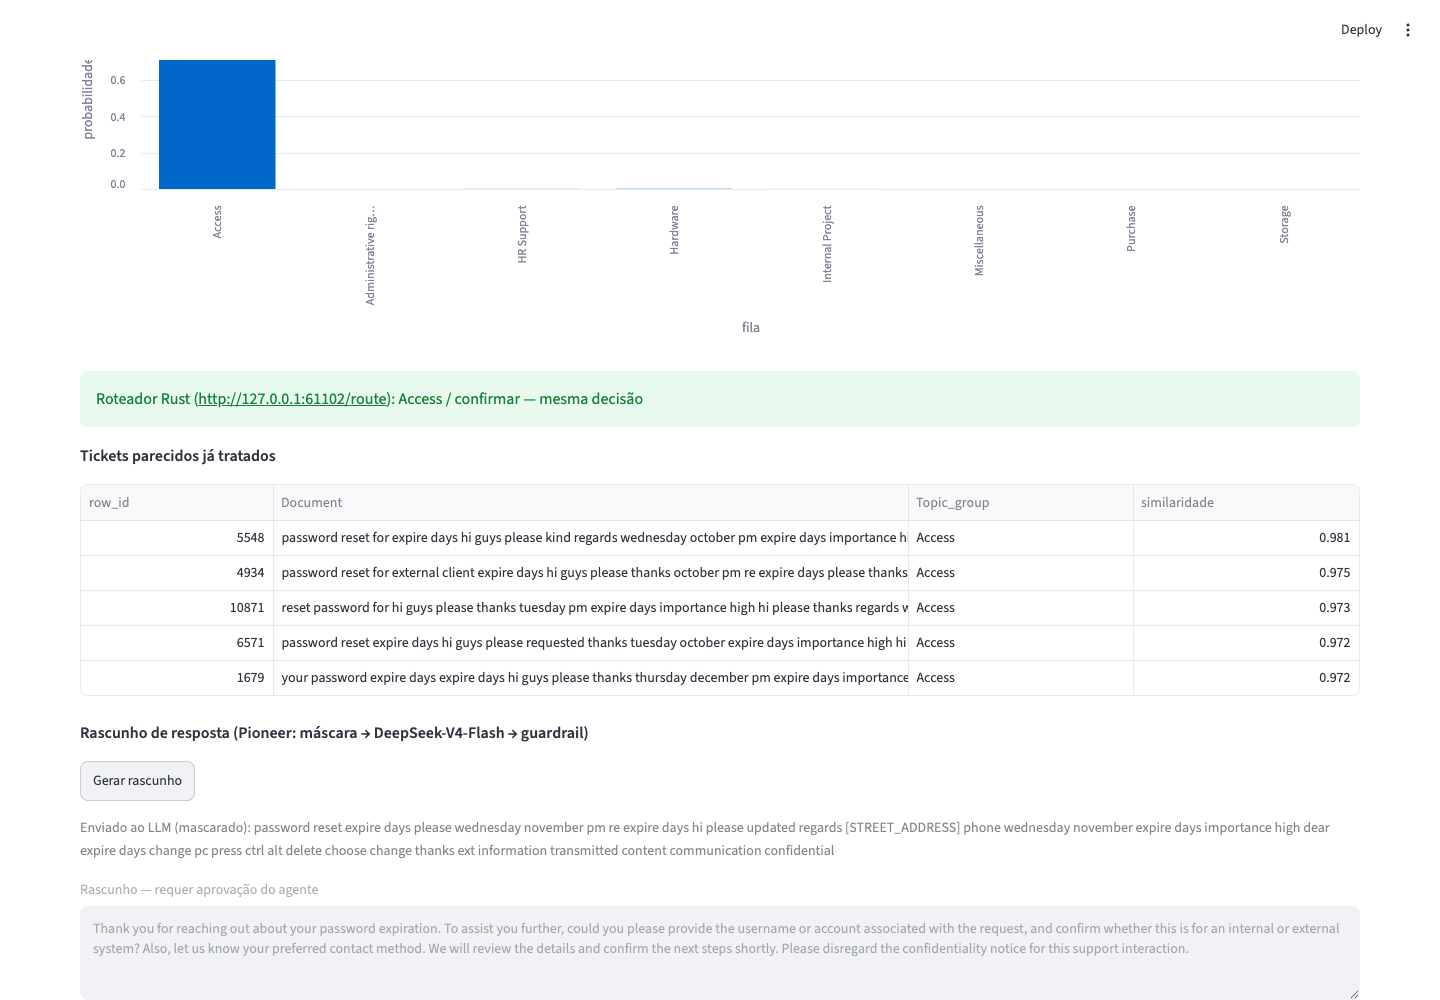
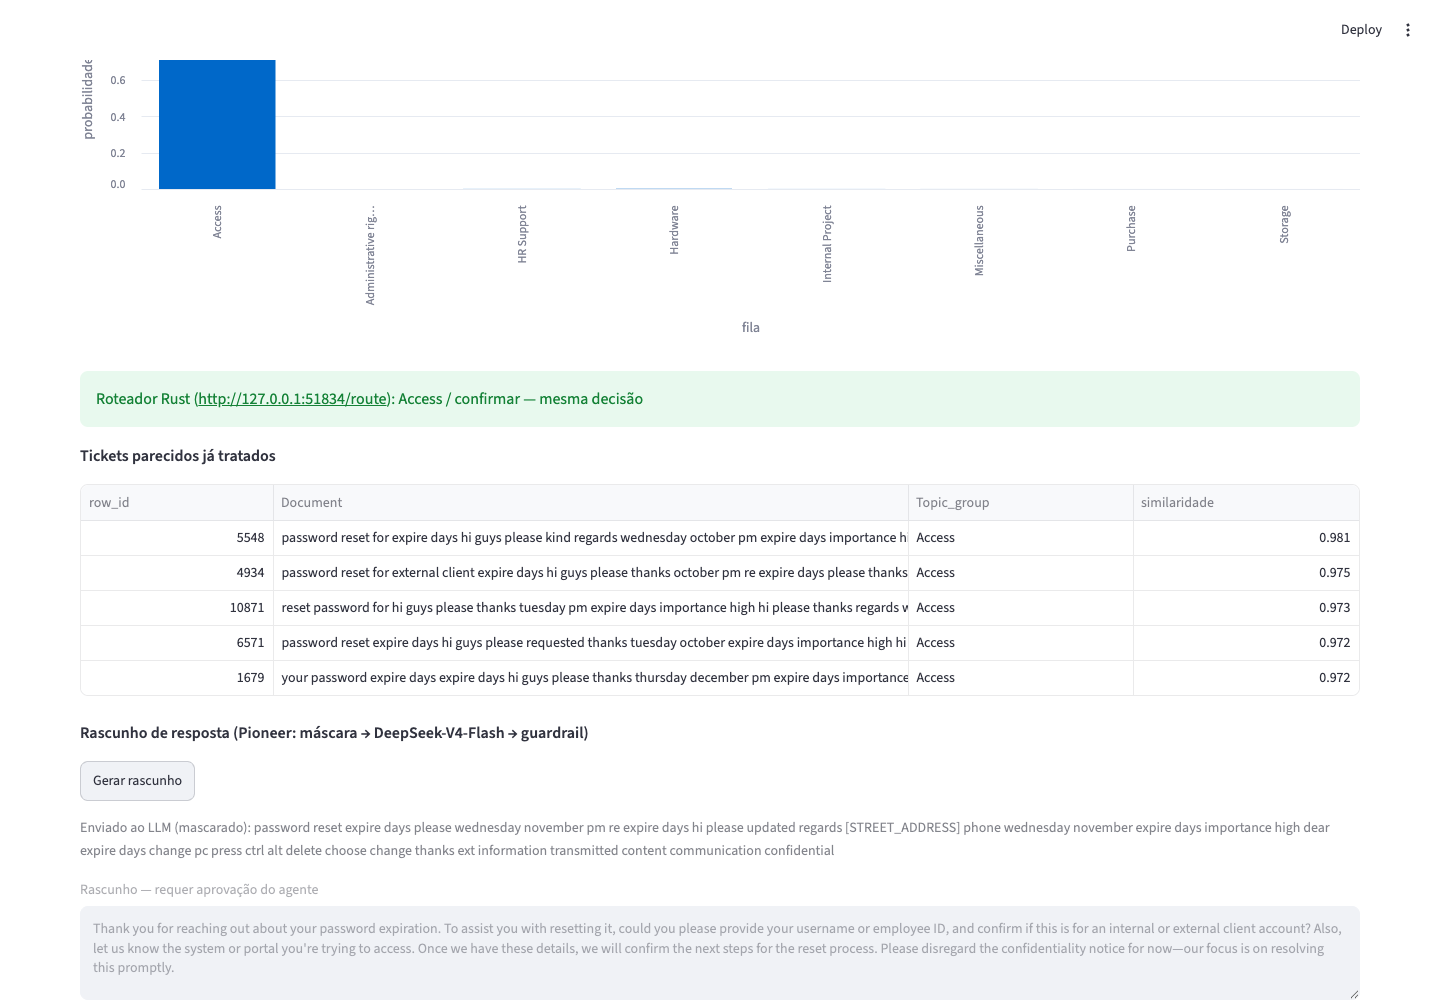
docs(002): links da demo pública, provas atualizadas e process log da publicação

Changed region(s): [[0.4062, 0.93, 0.9375, 0.961], [0.0625, 0.93, 0.375, 0.992], [0.2188, 0.372, 0.25, 0.403]]

diff --git a/submissions/geoffrey-porto/process-002-support/process-log/PROCESS_LOG.md b/submissions/geoffrey-porto/process-002-support/process-log/PROCESS_LOG.md
@@ -30,6 +30,10 @@ no setup), em 2026-09-16. Linha do tempo aproximada, decisões e erros pegos.
 | 4:10 | Grafo do código | graphify achou ciclo de import `model.rs ↔ policy.rs` | Movi `Scores` para `scores.rs`; binários recompilados; grafo sem ciclos |
 | 4:20 | E2E | 8 testes Playwright no Chrome real, com capturas | O rascunho real do Pioneer apareceu mascarado e aprovado pelo guardrail |
 | 4:30 | Evidência | Export da sessão | Chave e e-mail redigidos antes de salvar; zip original substituído pela versão redigida |
+| 5:00 | Publicação (pedido do autor) | Vercel: página estática + função Rust (runtime oficial, beta) com o modelo embutido; Streamlit Cloud com rascunho desligado | Rascunho público desligado: a chave é do autor |
+| 5:20 | Falha no Streamlit Cloud | O app treinava tudo no boot; no Linux as probabilidades mudam na 9ª casa, o cache hospedado ficava incompleto e o pipeline tentava chamar o Pioneer sem chave | Pipeline só usa rede com `--pioneer`; o app serve o `router_model.json.gz` versionado (paridade testada) e só monta o índice no boot |
+| 5:30 | Segfault | `pyarrow` 25.0.1 caía num container limpo (mesmo aviso do Streamlit Cloud) | `pyarrow<25` fixado |
+| 5:40 | Regra do challenge | O Streamlit Cloud criou `.devcontainer/` na raiz do repositório em nome do autor | Removido num commit próprio; o PR só altera `submissions/geoffrey-porto/` |
 
 ## Decisões (contexto → escolha → evidência)
 
@@ -65,12 +69,17 @@ no setup), em 2026-09-16. Linha do tempo aproximada, decisões e erros pegos.
 14. Comando `cargo run --manifest-path` documentado não funcionava fora de `router/` (rustup escolhe a versão pela pasta atual).
 15. Porta fixa 18080 nos testes colidia com o OrbStack → portas escolhidas pelo sistema.
 16. Varredura de segredos com `grep` pulava arquivos ocultos → refeita em Python.
+17. `vercel_runtime` não compila para Windows → dependência só em Unix.
+18. Sobrescrever binário assinado no macOS com `cp` → SIGKILL; o build agora grava arquivo novo.
+19. Bootstrap do app público rodava o pipeline inteiro → no Linux o cache do Pioneer ficava incompleto e o app pedia chave.
+20. `pyarrow` 25.0.1 com segfault conhecido → fixado abaixo de 25.
+21. Cache do `router_status` sem o endereço como chave → testes com portas diferentes reaproveitavam o status errado.
 
 ## Como reproduzir as provas
 
 ```bash
 cd solution
-uv run pytest -q                 # 76 testes: unitários, cargo test, clippy e E2E Playwright
+uv run pytest -q                 # 87 testes: unitários, cargo test, clippy e E2E Playwright
 for f in $(ls .spec/features); do onp-spec verify $f; done
 onp-spec audit --ci              # só as perguntas de negócio abertas aparecem
 ```

diff --git a/submissions/geoffrey-porto/process-002-support/README.md b/submissions/geoffrey-porto/process-002-support/README.md
@@ -29,6 +29,24 @@ A recomendação: **piloto de roteamento automático com fronteira medida**
 (não 100%), rodando num roteador Rust que decide igual ao modelo avaliado, e
 **pedir o export real do help desk** antes de qualquer decisão sobre gargalos.
 
+### Demo pública
+
+| O quê | Link |
+|---|---|
+| App completo (Streamlit Community Cloud) | https://support-redesign-g4.streamlit.app |
+| Página de resultados + roteador Rust (Vercel) | https://support-redesign-g4.vercel.app |
+| API de roteamento | `POST https://support-redesign-g4.vercel.app/api/route` · `GET …/api/route/health` |
+
+```bash
+curl -s -X POST https://support-redesign-g4.vercel.app/api/route \
+  -H 'Content-Type: application/json' \
+  -d '{"text":"cannot access shared drive permission denied","priority":"High"}'
+```
+
+Na versão pública o rascunho do Pioneer fica desligado (a chave é do autor); o
+resto do app roda igual ao local. A API da Vercel usa os mesmos handlers Rust e
+o mesmo modelo do roteador local, com o modelo embutido no binário.
+
 ---
 
 ## Solução
@@ -41,7 +59,7 @@ A recomendação: **piloto de roteamento automático com fronteira medida**
    <!--m:d1_rows-->8.469 linhas (README: ~30.000), e o schema do Pioneer sugerido
    nos docs devolve resposta vazia.
 2. **Especificar (SDD / onp-spec).** Constituição com 13 princípios verificáveis
-   e 10 features com 41 critérios de aceite em Dado/Quando/Então
+   e 11 features com 45 critérios de aceite em Dado/Quando/Então
    (`solution/.spec/`). Todo teste carrega `@spec:AC-xxx`; `onp-spec verify`
    grava a prova e `onp-spec audit` cruza spec ↔ tarefa ↔ teste ↔ código.
 3. **CRISP-DM** para a análise (`docs/CRISP-DM-IT-Support-Challenge.md`), com
@@ -167,7 +185,7 @@ reaproveitamento de solução — precisa do export real para ser medido.
 - `solution/router/`: `POST /route` e `GET /health` em Rust, com binários
   prontos em `router/dist/` para macOS, Linux e Windows (o avaliador não precisa
   de Rust; o app sobe o roteador sozinho).
-- Testes: 76 no total — unitários, de contrato, paridade Python ↔ Rust e 8
+- Testes: 87 no total — unitários, de contrato, paridade Python ↔ Rust e 8
   testes funcionais **E2E com Playwright** no Chrome real (abas, filtro, ticket
   sorteado com decisão do Rust, Critical nunca automático, rascunho do Pioneer,
   busca de similares e ROI), que também geram as capturas de tela. Decide igual ao

diff --git a/submissions/geoffrey-porto/process-002-support/solution/.spec/features/publicacao/tasks.md b/submissions/geoffrey-porto/process-002-support/solution/.spec/features/publicacao/tasks.md
@@ -2,13 +2,11 @@
 
 > feature: publicacao
 
-## T-019 — Demo pública e bootstrap do app [pendente]
-
+## T-019 — Demo pública e bootstrap do app [concluida]
 - Refs: US-015, AC-042, AC-043
 - Arquivos: app/streamlit_app.py, app/requirements.txt, src/support_redesign/bootstrap.py, src/support_redesign/pipeline.py, src/support_redesign/hosted_eval.py, src/support_redesign/exported.py, tests/test_publicacao.py
 
-## T-020 — API Rust na Vercel e página estática [pendente]
-
+## T-020 — API Rust na Vercel e página estática [concluida]
 - Refs: US-015, AC-044, AC-045
 - Arquivos: router/api/route.rs, router/vercel.json, router/.vercelignore, router/public/index.html, router/public/data.json, router/tests/vercel_api.rs, src/support_redesign/public_page.py
 - Notas: runtime Rust oficial da Vercel (beta) com VercelLayer; modelo embutido via include_bytes.

diff --git a/submissions/geoffrey-porto/process-002-support/solution/README.md b/submissions/geoffrey-porto/process-002-support/solution/README.md
@@ -77,3 +77,14 @@ onp-spec audit --ci                                # só as perguntas de negóci
 
 Variáveis opcionais: `SUPPORT_DATA_DIR` (CSVs em outro lugar), `ROUTER_MODEL` / `ROUTER_ADDR`
 (roteador), `ROUTER_URL` (app).
+
+## Publicação
+
+- **Vercel** (`router/`): `npx vercel@latest deploy --prod` a partir de `router/`.
+  A função `api/route.rs` usa o runtime Rust oficial com o modelo embutido;
+  `public/` é servido como página estática (`data.json` é gerado pelo pipeline).
+- **Streamlit Community Cloud**: arquivo principal
+  `submissions/geoffrey-porto/process-002-support/solution/app/streamlit_app.py`,
+  Python 3.14, dependências em `app/requirements.txt` e o secret
+  `SUPPORT_PUBLIC_DEMO = "1"` (desliga o rascunho). No primeiro acesso o app só
+  monta o índice de similares; o modelo servido é `router/dist/router_model.json.gz`.
